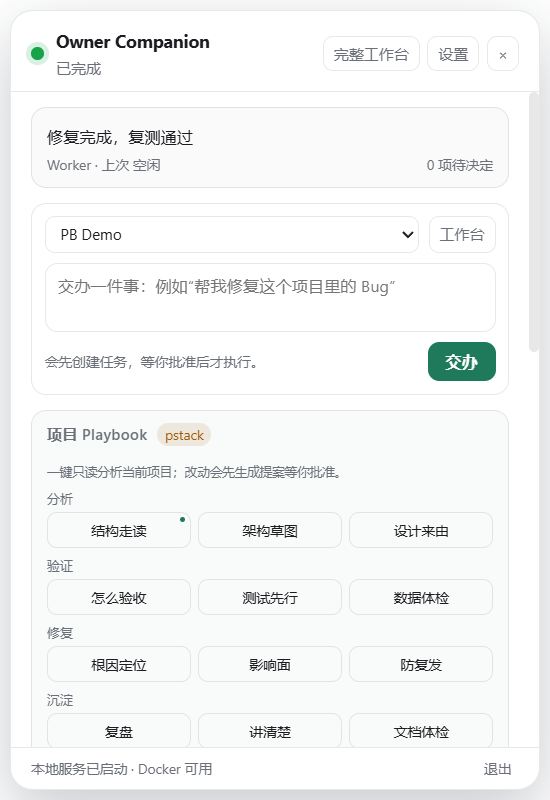
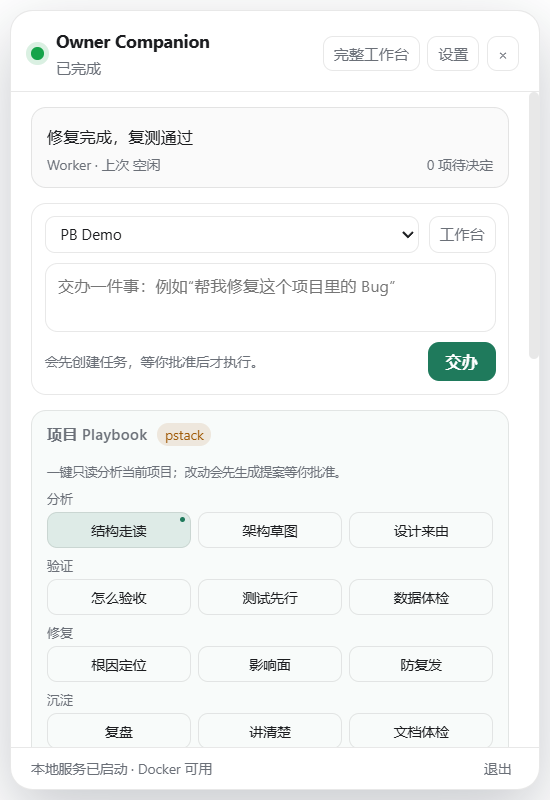
fix(playbook): raise timeout budget, add cancel and progress, normalize evidence refs

Changed region(s): [[0.0618, 0.625, 0.3709, 0.6875]]

diff --git a/desktop/panel.js b/desktop/panel.js
@@ -340,6 +340,9 @@
   let playbookBusy = false;
   let playbookCurrent = null;
   let playbookProjectId = '';
+  let playbookRunningId = '';
+  let playbookTimer = null;
+  let playbookStartedAt = 0;
 
   const playbookLabelOf = (id) => {
     for (const group of playbookCatalog?.groups ?? []) {
@@ -417,6 +420,14 @@
       box.append(el('span', 'playbook-more', `还有 ${result.findings.length - 3} 条，见完整报告`));
     }
     const actions = el('div', 'playbook-actions');
+    if (result.status !== 'ok') {
+      if (result.advice) {
+        box.append(el('p', 'playbook-advice', result.advice));
+      }
+      const retry = el('button', 'primary small', '重试');
+      retry.onclick = () => { void runPlaybook(result.playbookId); };
+      actions.append(retry);
+    }
     const full = el('button', 'ghost small', '完整报告');
     full.onclick = () => { void openPlaybookReport(result.runId); };
     actions.append(full);
@@ -512,8 +523,16 @@
     const projectId = view?.config?.projectId ?? $('projectSelect').value ?? '';
     if (!projectId) { toast('先选择一个项目。'); return; }
     playbookBusy = true;
+    playbookRunningId = id;
+    playbookStartedAt = Date.now();
     playbookButtonState(true);
-    $('playbookHint').textContent = `正在运行「${playbookLabelOf(id)}」，只读分析项目文件…`;
+    $('playbookCancel').hidden = false;
+    const tick = () => {
+      const seconds = Math.round((Date.now() - playbookStartedAt) / 1000);
+      $('playbookHint').textContent = `正在运行「${playbookLabelOf(id)}」· ${seconds}s（只读，可取消）`;
+    };
+    tick();
+    playbookTimer = window.setInterval(tick, 1000);
     try {
       const result = await window.companion.playbooks.run({ playbookId: id, projectId });
       playbookCurrent = result;
@@ -523,7 +542,10 @@
     } catch (error) {
       toast(String(error?.message ?? error), 6000);
     } finally {
+      if (playbookTimer) { window.clearInterval(playbookTimer); playbookTimer = null; }
       playbookBusy = false;
+      playbookRunningId = '';
+      $('playbookCancel').hidden = true;
       playbookButtonState(false);
       $('playbookHint').textContent = '一键只读分析当前项目；改动会先生成提案等你批准。';
       void loadPlaybooks();
@@ -817,6 +839,16 @@
   }
   $('openKnowledge').onclick = () => {
     void window.companion.knowledge.open().catch((error) => toast(String(error.message ?? error)));
+  };
+
+  $('playbookCancel').onclick = async () => {
+    if (!playbookRunningId) return;
+    try {
+      const result = await window.companion.playbooks.cancel({ playbookId: playbookRunningId });
+      toast(result?.canceled ? '已请求取消，正在中止会话…' : '当前没有正在运行的 playbook');
+    } catch (error) {
+      toast(String(error?.message ?? error), 5000);
+    }
   };
 
   window.companion.onOpenSettings(() => { void openSettings(); });

diff --git a/desktop/panel.html b/desktop/panel.html
@@ -63,7 +63,10 @@
           <h3>项目 Playbook</h3>
           <span id="playbookBadge" class="count">pstack</span>
         </div>
-        <div id="playbookHint" class="playbook-hint">一键只读分析当前项目；改动会先生成提案等你批准。</div>
+        <div id="playbookHintRow" class="playbook-hint-row">
+          <span id="playbookHint" class="playbook-hint">一键只读分析当前项目；改动会先生成提案等你批准。</span>
+          <button id="playbookCancel" class="ghost small" hidden>取消</button>
+        </div>
         <div id="playbookGroups" class="playbook-groups"></div>
         <div id="playbookResult" class="playbook-result" hidden></div>
       </section>

diff --git a/desktop/panel.css b/desktop/panel.css
@@ -504,3 +504,22 @@ pre.diff, pre.logs {
 .playbook-more { font-size: 10px; color: var(--muted); }
 
 .playbook-actions { display: flex; justify-content: flex-end; gap: 6px; }
+
+.playbook-hint-row {
+  display: flex;
+  align-items: center;
+  gap: 8px;
+  justify-content: space-between;
+}
+
+.playbook-hint-row .playbook-hint { flex: 1; }
+
+.playbook-advice {
+  margin: 0;
+  font-size: 11px;
+  line-height: 1.5;
+  color: var(--warn);
+  background: var(--warn-soft);
+  border-radius: 8px;
+  padding: 6px 8px;
+}

diff --git a/docs/PSTACK_PLAYBOOKS_V1.md b/docs/PSTACK_PLAYBOOKS_V1.md
@@ -41,10 +41,12 @@ pstack 仓库里另外 43 个 skill 没有进面板；它们仍然可以通过 `
 
 任何增删改都必须经过这两次显式批准；panel 侧没有审批令牌，令牌只存在于主进程，渲染进程拿不到。
 
-## 4. 成本与失败
+## 4. 成本、进度与失败
 
-- 每次点击 = 一次真实模型调用。小项目约 10–30 秒，大项目实测 90 秒左右（`how` 在 12 万行级 Godot 仓库上 93 秒）。
-- 模型不稳定时返回结构化错误：`timeout` / `auth-error` / `network-error` / `readonly-violation` / `session-error`，不会把上游原文塞进 UI。
+- 每次点击 = 一次真实模型调用。小项目约 10–30 秒，大仓库实测 2 分 48 秒（`architect` 在 12 万行级 Godot 仓库上）。
+- 运行中面板显示已用秒数，并提供「取消」；取消会真正中止会话，而不是只隐藏转圈。
+- 超时预算：默认 4 分钟，`architect` 5 分钟；可用 `OWNER_PLAYBOOK_TIMEOUT_MS` 覆盖默认值。
+- 失败返回结构化分类：`timeout` / `canceled` / `auth-error` / `network-error` / `readonly-violation` / `session-error`，并附一句可执行建议 + 「重试」按钮；不会把上游原文塞进 UI。
 - 找不到 pstack skills 目录时按钮禁用，提示设置 `PSTACK_DIR`。
 
 ## 5. 验证
@@ -58,7 +60,9 @@ $env:EVIDENCE_DIR='<证据目录>'
 node scripts/e2e/desktop-playbooks.mjs
 ```
 
-E2E 覆盖：12 个按钮/4 组渲染 → 真实只读分析（摘要 + 证据引用）→ 无可编造路径 → 生成提案 → 关库后确认 Job 停在 `pending_approval` 且没有补丁提案。
+E2E 覆盖：12 个按钮/4 组渲染 → 真实只读分析（摘要 + 证据引用）→ 无可编造路径 → 运行中取消 → 生成提案 → 关库后确认 Job 停在 `pending_approval` 且没有补丁提案。
+
+证据规范化：模型给出的 `` `path` ``、`path:12`、`path#L3`、`path（第 12 行）` 都会归一到文件路径再核验。
 
 ## 6. 边界
 
